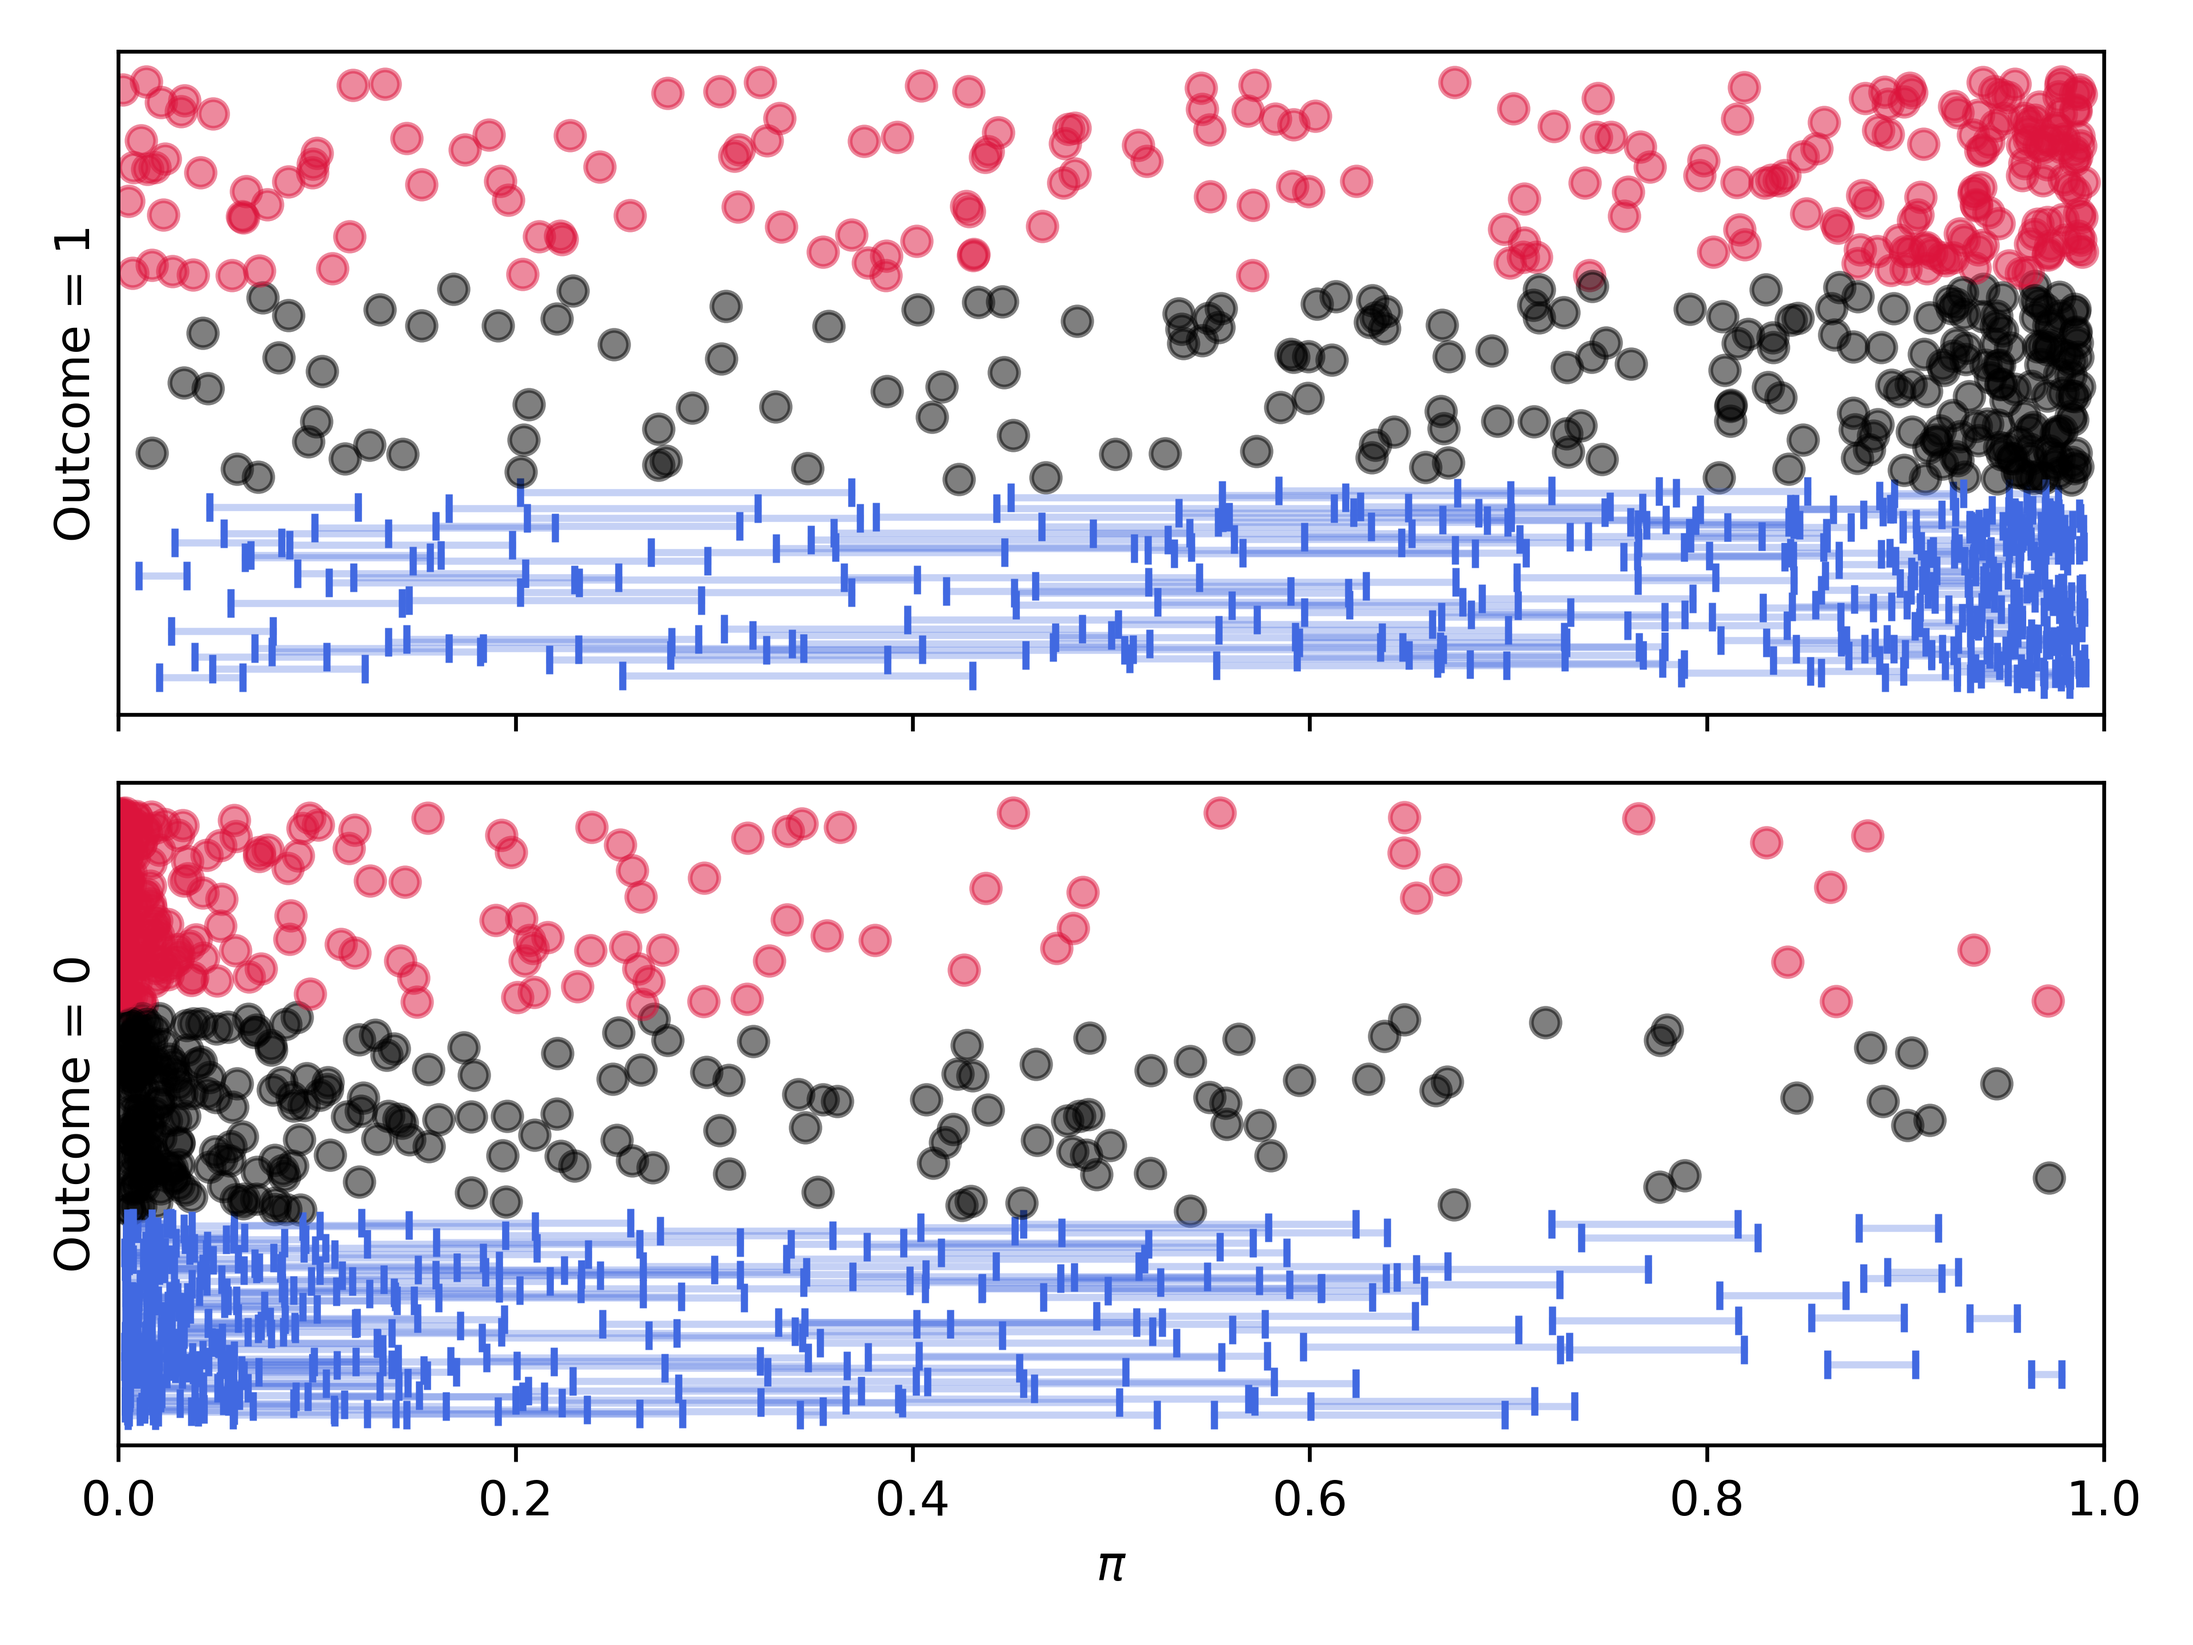
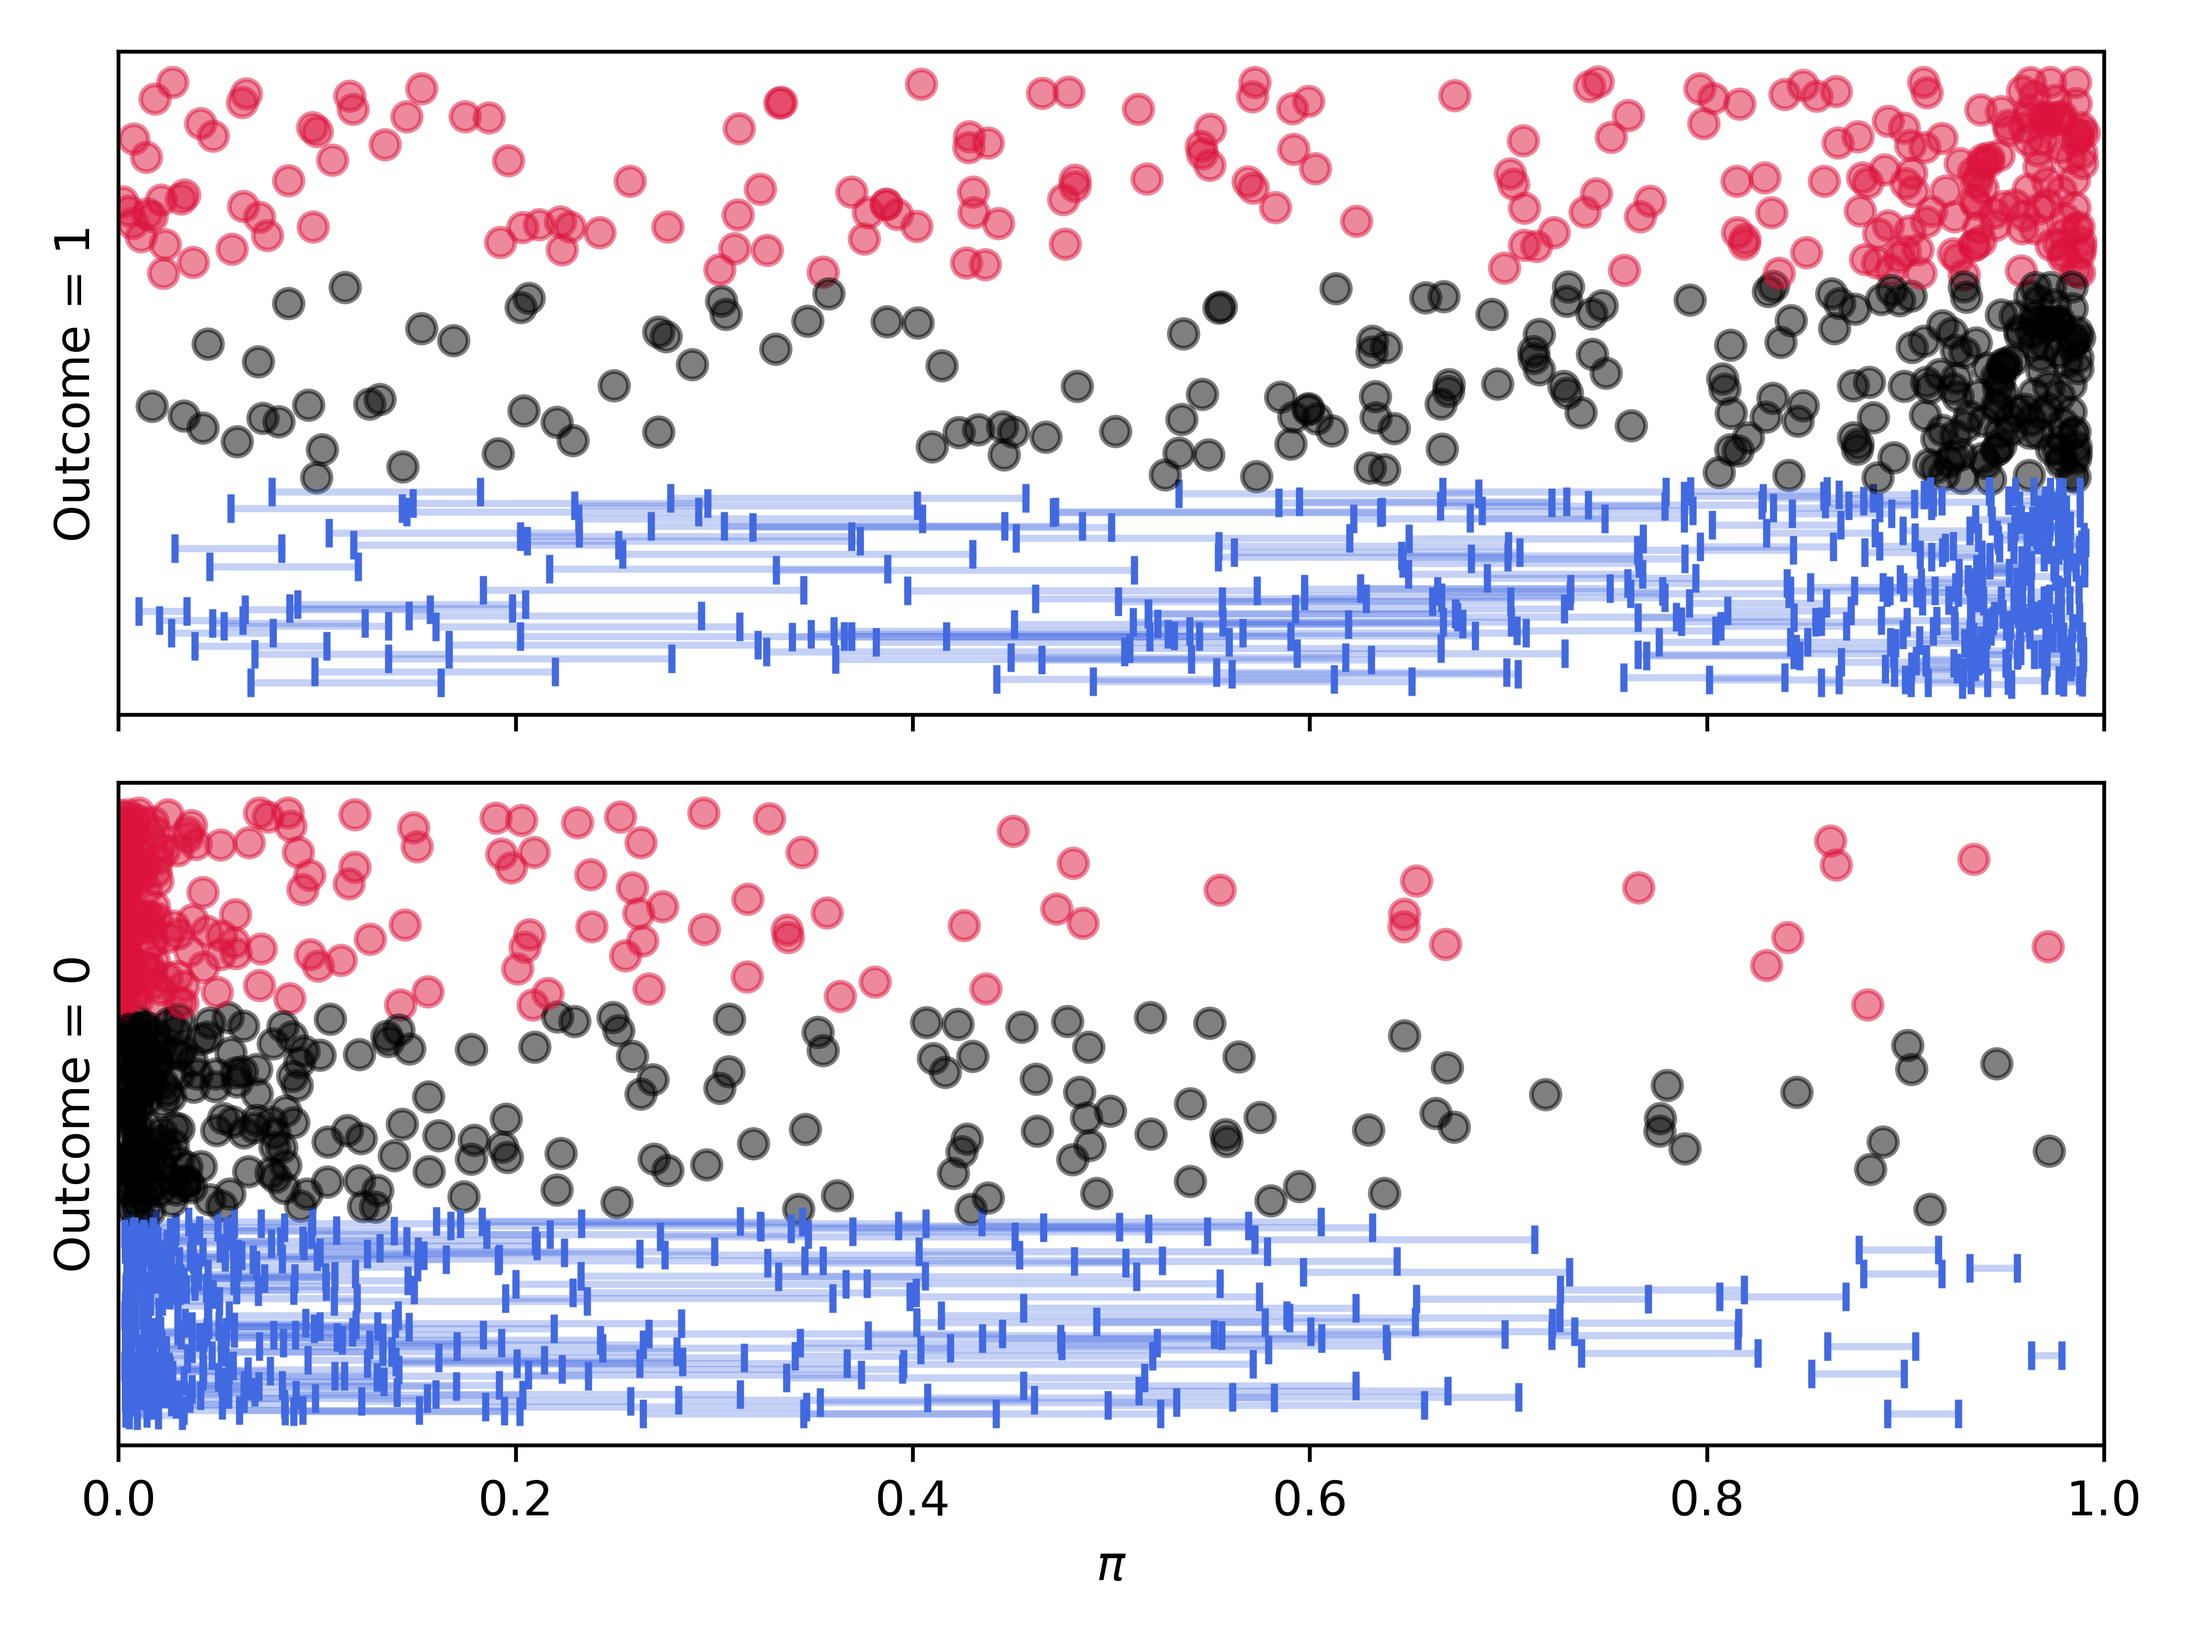
Its been a while...

diff --git a/ex1_UC.py b/ex1_UC.py
@@ -109,10 +109,12 @@ plt.scatter(nuq_data,nuq_results,color='grey',zorder=10)
 plt.plot(lX,lY,color='k',zorder=10,lw=2,label = 'Truth')
 plt.plot(lX,lYn,color='#DC143C',zorder=10,lw=2,label = 'No UQ')
 
-for x in uq_data[0]:
+for i in uq_data_index:
 
-    plt.plot([x,x],[0,1],color='grey')
-
+    plt.plot([uq_data.loc[i],uq_data.loc[i]],[0,1],color='grey')
+    plt.scatter(uq_data.loc[i],train_results.loc[i],marker = 'd',color = 'black',zorder = 14)
+    
+    
 lYmin = np.ones(steps)
 lYmax = np.zeros(steps)
 
@@ -228,7 +230,7 @@ for i,(p,u,nuqp,r) in enumerate(zip(predictions,uq_predictions,nuq_predictions,t
         axdens[1].scatter(p,yd,color = 'k',marker = 'o',alpha = 0.5)
         axdens[1].scatter(nuqp,0.21+yd,color = '#DC143C',marker = 'o',alpha = 0.5)
         axdens[1].plot([u[0],u[1]],[yd-0.21,yd-0.21],color = '#4169E1',alpha = 0.3)
-        axdens[1].scatter([u[0],u[1]],[yd-0.21,yd-0.21]color = '#4169E1',marker = '|')
+        axdens[1].scatter([u[0],u[1]],[yd-0.21,yd-0.21],color = '#4169E1',marker = '|')
         
         
 axdens[0].set(ylabel = 'Outcome = 1',yticks = [])

diff --git a/biased_UC.py b/biased_UC.py
@@ -69,7 +69,7 @@ plt.plot(lX,lY,color='k',zorder=10,lw=2,label = 'Truth')
 for i in uq_data_index:
 
     plt.plot([uq_data.loc[i],uq_data.loc[i]],[0,1],color='grey')
-    plt.scatter(uq_data.loc[i],results.loc[i],marker = 'd',color = 'darkgreen',zorder = 14)
+    plt.scatter(uq_data.loc[i],results.loc[i],marker = 'd',color = 'black',zorder = 14)
 
 lYmin = np.ones(steps)
 lYmax = np.zeros(steps)
@@ -100,4 +100,4 @@ with open('runinfo/biased_UC_HL.out','w') as f:
     print('base\nhl = %.3f, p = %.3f' %(hl_b,pval_b),file = f)
     print('no UQ\nhl = %.3f, p = %.3f' %(hl_nuq,pval_nuq),file = f) 
 
-    print('UQ\nhl = [%.3f,%.3f], p = [%.3f,%.3f]' %(*hl_uq,*pval_uq),file = f) 
+    print('UQ\nhl = [%.5f,%.3f], p = [%.9f,%.3f]' %(*hl_uq,*pval_uq),file = f) 
